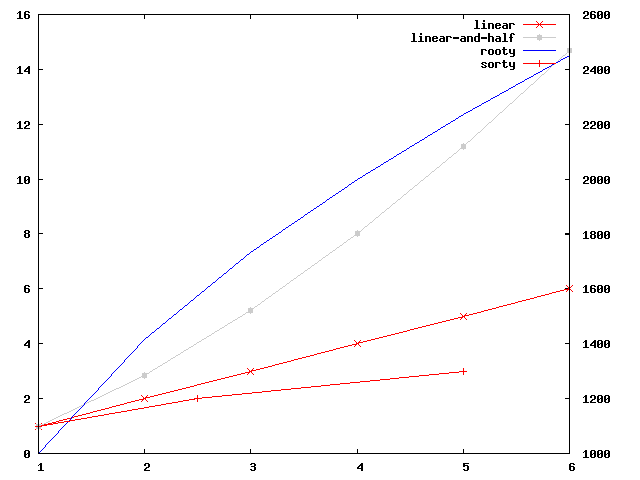
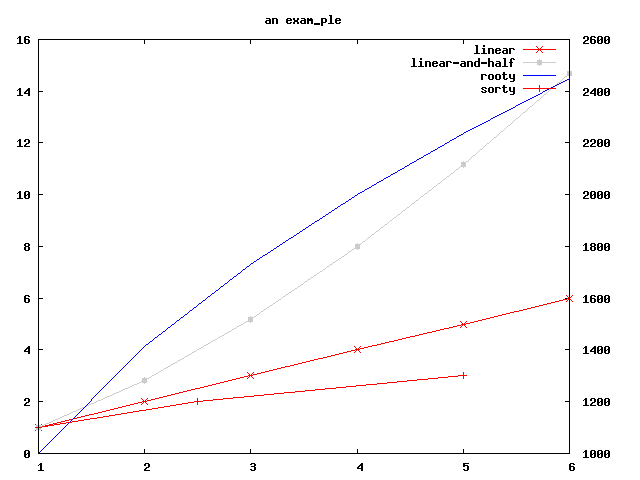
proper gnuplot escaping fix

diff --git a/examples/simple.rb b/examples/simple.rb
@@ -5,6 +5,7 @@ b = (1..6).map{|x| [x,x**1.5]}
 d = (1..6).map{|x| [x,1000*x**0.5]}
 
 c = Grafikon::Chart::Line.new do
+  title "an exam_ple"
   size :fill, '8cm'
   add a, :title => 'linear', :mark => :x
   add b, :title => 'linear-and-half', :color => :gray, :mark => :Circle

diff --git a/lib/grafikon.rb b/lib/grafikon.rb
@@ -9,10 +9,9 @@ require 'guttapercha'
 
 module Grafikon
 
-  def gnuplot_escape(s)
+  def self.gnuplot_escape(s)
     s.gsub("_", "\\_")
     s.gsub("\"", "\\\"")
   end
-  
 
 end
